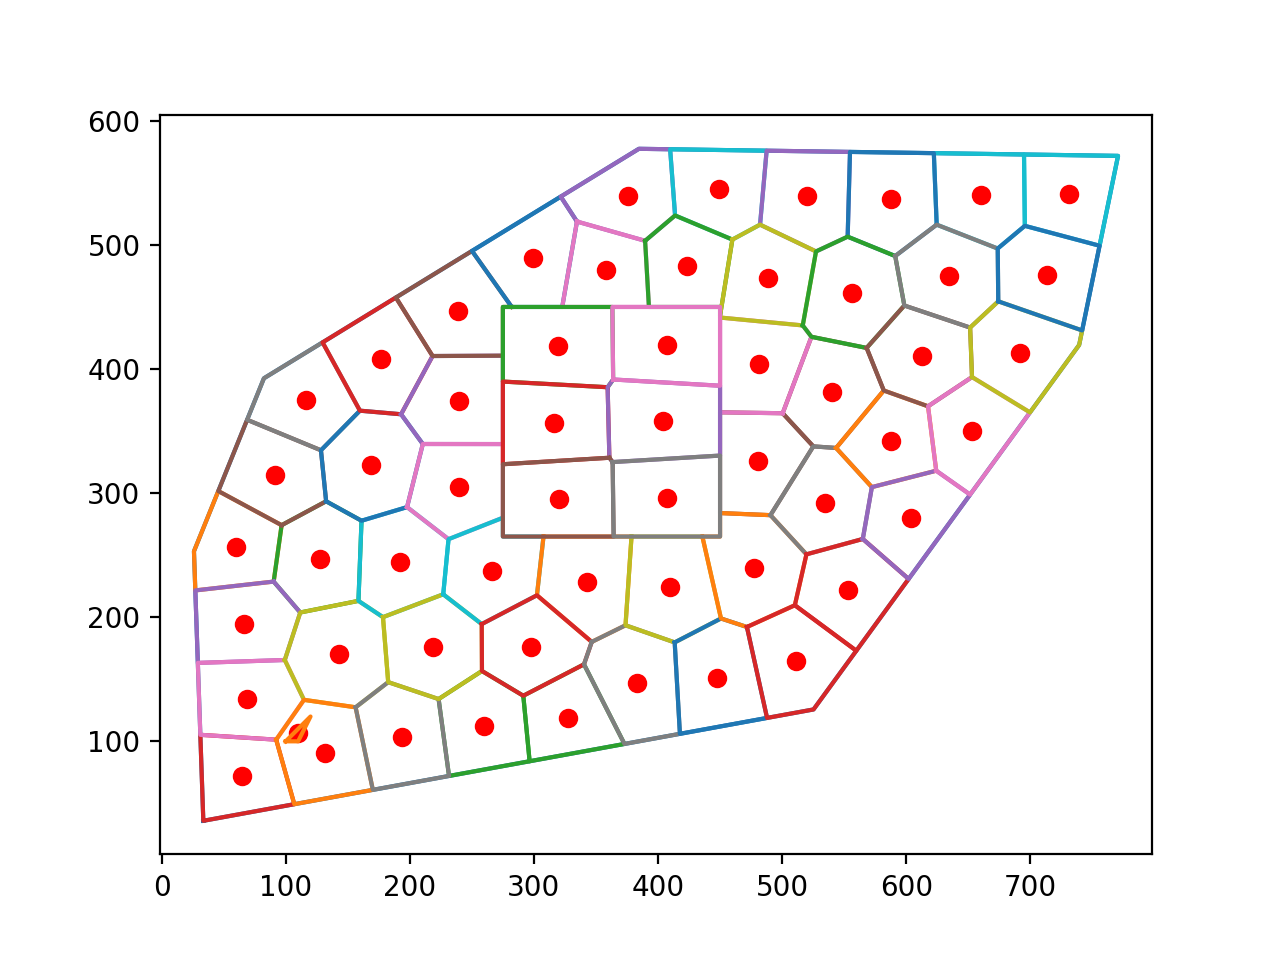
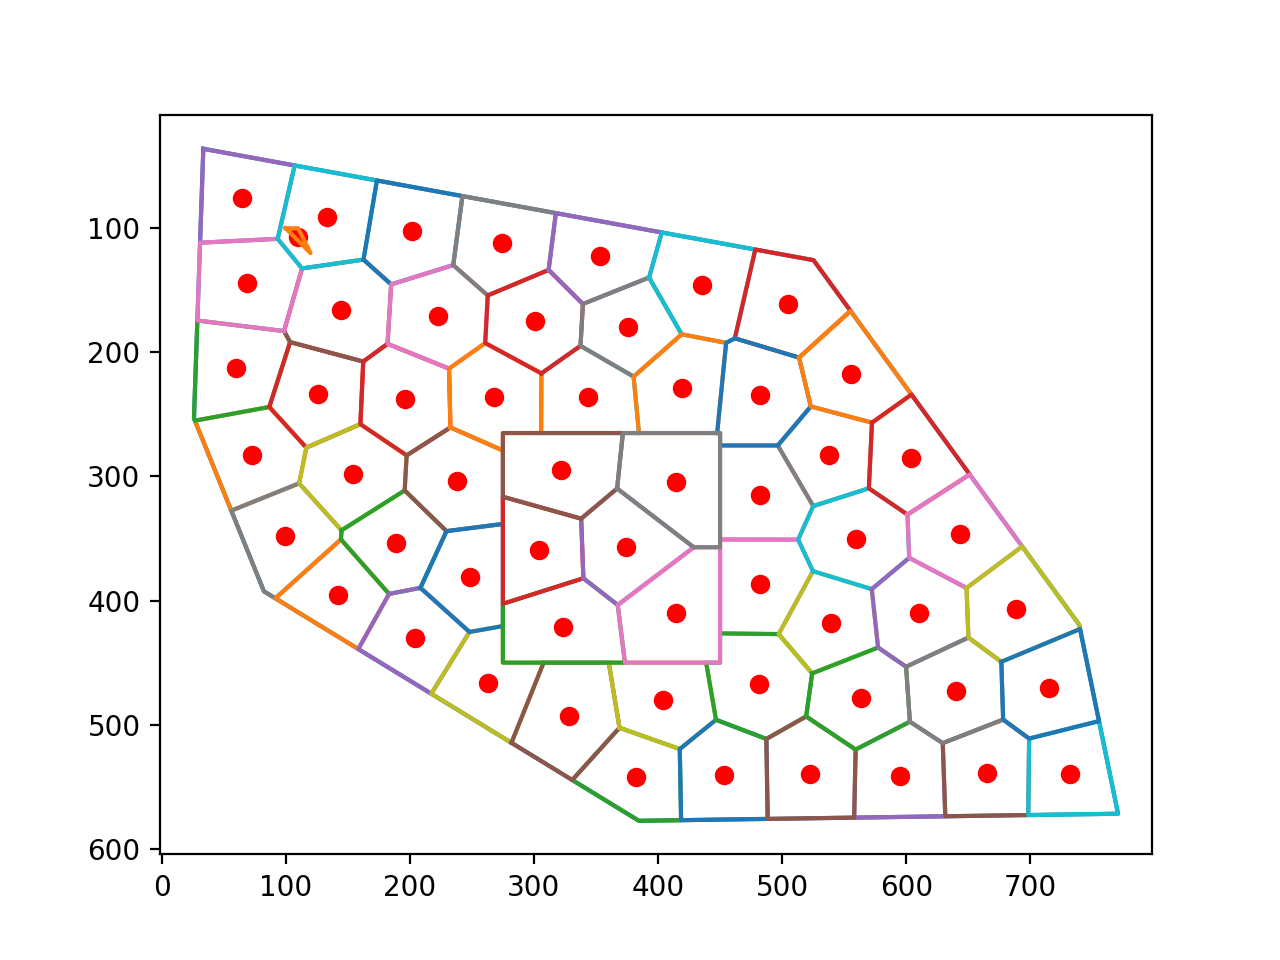
flip voronoi_plot.png

diff --git a/players/g3_player.py b/players/g3_player.py
@@ -255,6 +255,7 @@ def split_polygon(golf_map: sympy.Polygon, sand_traps: List[shapely.geometry.Pol
     plt.scatter([r.centroid.x for r in regions], [r.centroid.y for r in regions], color='red')
     for region in regions:
         plt.plot(*region.exterior.xy)
+    plt.gca().invert_yaxis()
     plt.savefig(map_name + '_voronoi_plot')
     ## write the map data into the system
     with open(path, 'wb') as handle:
